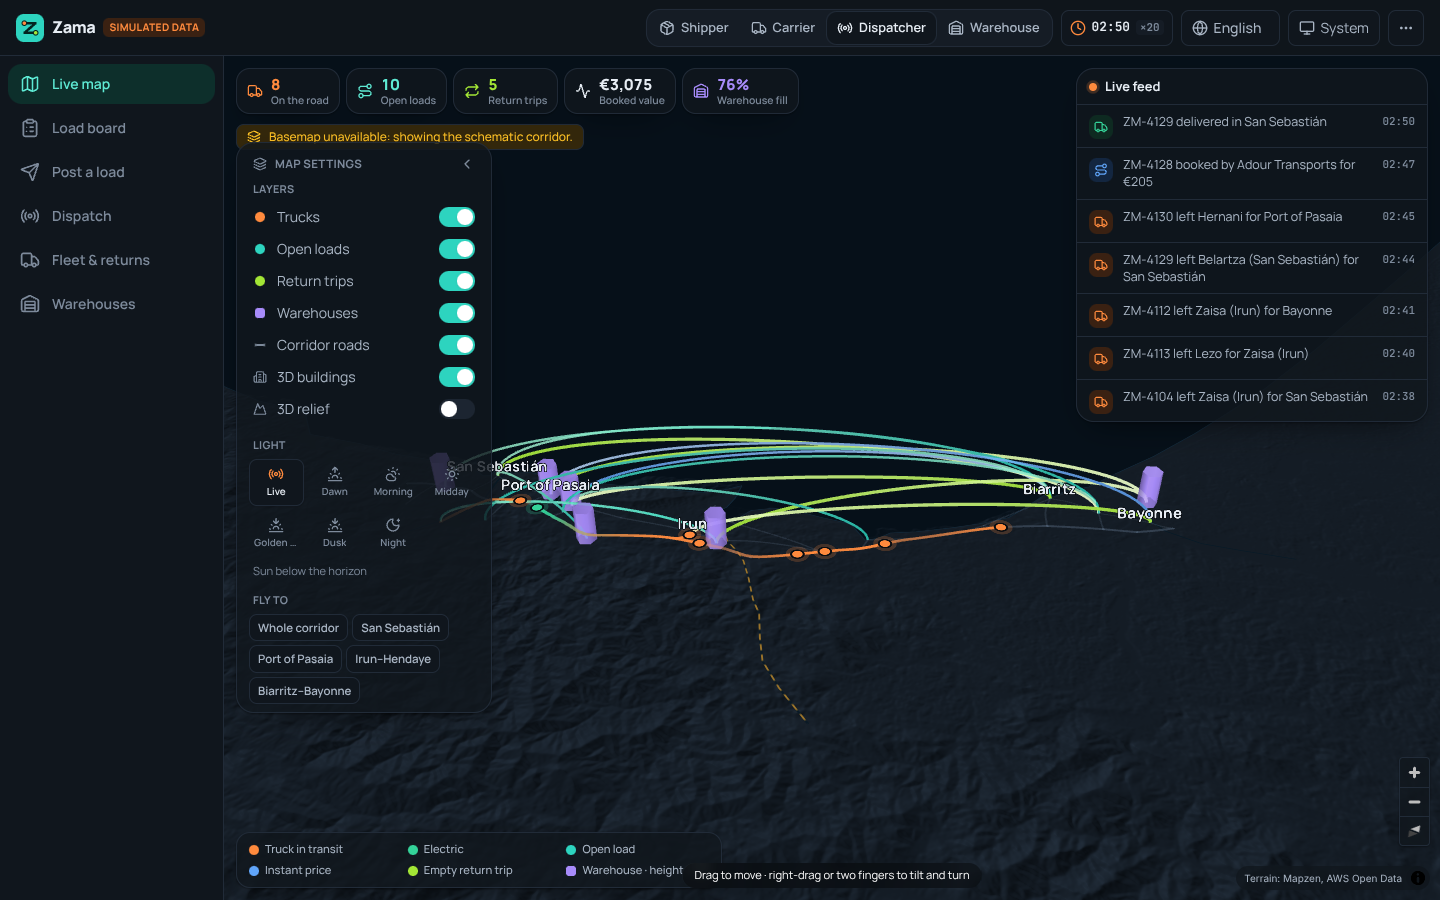
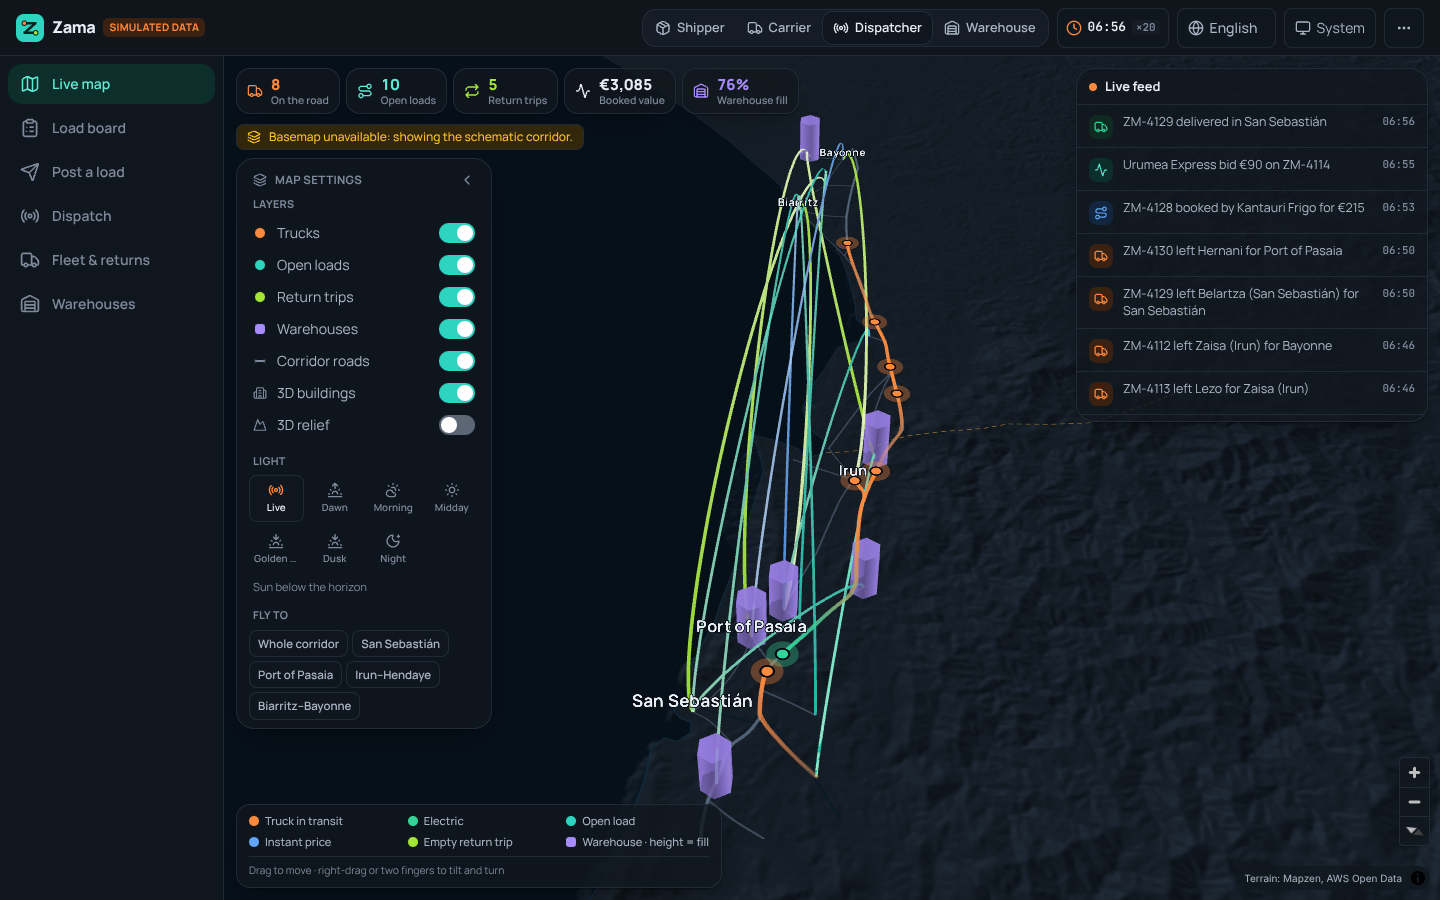
README: corrected rules, research notes, roadmap, new screenshots
- Rules as they stand in October 2026: Donostia ZBE phases and foreign
  plates, the Pays Basque ZFE, cabotage with the 4-day cooling-off, DeCA
  for domestic Spanish trips, CMR / lettre de voiture otherwise, with
  sources.
- Tolls on the AP-8 and A-63 (the GI-20 is free); 55 km by road.
- What current freight exchanges and warehouse systems offer that Zama
  doesn't yet, quick wins first; a roadmap built on it.
- Live demo link; screenshots retaken with the new map framing.

Claude-Session: https://claude.ai/code/session_01FzZgtjUupfeEJgQxbaito1

diff --git a/README.md b/README.md
@@ -2,7 +2,9 @@
 
 **Every truck on the Basque coast, full both ways.**
 
-Zama is a working prototype of a freight and warehouse marketplace for the 50 km cross-border corridor between
+**Live demo: [zama-freight.vercel.app](https://zama-freight.vercel.app)** (opens in your language: es · eu · fr · en · ru)
+
+Zama is a working prototype of a freight and warehouse marketplace for the 55 km (by road) cross-border corridor between
 **San Sebastián / Donostia**, the **port of Pasaia**, **Irun** (and the Zaisa logistics area), **Hendaye** and the
 **Biarritz – Anglet – Bayonne** coast. One market, seen from four seats:
 
@@ -50,26 +52,44 @@ underneath: streets, land use and 3D buildings lit by the sun.
 
 ### Marketplace
 
-- **Instant fair price** for every lane and vehicle, shown before anyone bids: handling + distance + tolls (AP-8 / A-63)
-  + border handling + extras (express +25 %, tail-lift +€18, ADR +15 %), with a market range and €/km
-  (`src/lib/pricing.ts`, a hand-calibrated demo model, not a tariff).
-- **Two ways to book**: *take bids* (carriers send prices; the shipper accepts) or *instant price* (first carrier to accept).
+- **Instant fair price** for every lane and vehicle, shown before anyone bids: handling + distance + tolls + border
+  handling + extras (express +25 %, tail-lift +€18, ADR +15 %), with a market range and €/km
+  (`src/lib/pricing.ts`, a hand-calibrated demo model, not a tariff). Tolls are charged on the AP-8 east of Errenteria
+  and on the A-63, as a per-km stand-in for their plaza tolls; the free GI-20 ring through Donostia is not tolled, and
+  Gipuzkoa's HGV charge on the N-I / A-15 is not modelled.
+- **Two ways to book**: *take bids* (carriers send prices; the shipper accepts) or *instant price* (first carrier to
+  accept; *Book now* goes to the best-rated carrier with a truck free for the job).
 - **Bids** with vehicle, driver, DGT eco label, pickup ETA and a note; the carrier sees whether a bid is strong or weak
   against the fair range.
 - **Return trips (backhaul)**: carriers post an empty leg (vehicle, from, to, departure, free pallets, discount). Loads
   are matched when pickup is ≤ 15 km from the leg's start, delivery ≤ 18 km from its end, departure within ±6 h and the
   vehicle can carry it. Shippers can post-and-book in one step; carriers can pull a matching load onto their way home.
+- **One truck, one job**: a truck on a job or held for a return trip can't be assigned again, and pickers only offer
+  free trucks that can carry the load (type and weight). A load booked on a return trip or an accepted bid gets the
+  truck it was promised whenever that truck is free.
 - **Electronic consignment note** timeline: draft → shipper → carrier (pickup) → consignee (delivery).
 - **Live feed** of what the market is doing, and toasts for everything you do.
 
 ### Rules checked before booking
 
-- **Donostia ZBE** (low-emission zone): trips into or out of the zone need a DGT **0, ECO or C** label; a B-label
-  vehicle is flagged (`src/lib/checks.ts`).
-- **EU cabotage** (Reg. 1072/2009 as amended by the Mobility Package): a foreign carrier may run at most **3 domestic
-  operations in 7 days** after an international delivery; bids and assignments show the counter.
-- **DeCA / e-CMR**: from **5 October 2026** Spain requires an electronic control document (DeCA) for domestic road
-  freight; cross-border trips travel on an e-CMR. Every load shows which one applies.
+All in `src/lib/checks.ts`, checked against the rules as they stand in October 2026 (see [Sources](#sources-for-the-rules)).
+
+- **San Sebastián / Donostia ZBE** (low-emission zone, in force since December 2024, camera fines since March 2025):
+  until the end of 2027 it bars only vehicles **without a DGT label**; from 2028 it also bars **B**. A B-label truck is
+  allowed today and warned that it has until the end of 2027. **Foreign-plated** trucks have no DGT label at all and need
+  the city's **prior authorisation**, which the checks and the dispatch alerts point out.
+- **Pays Basque ZFE-m** (since June 2025, 06:00–20:00, Tarnos to Hendaye, which covers every French place in the app):
+  Crit'Air 4 or better, and foreign trucks need a Crit'Air sticker. Every demo vehicle passes, so the row is
+  informational.
+- **EU cabotage** (Reg. 1072/2009 as amended by Reg. 2020/1055): a carrier working **inside a country that isn't its
+  own** (a French haulier on a Spanish domestic job, or an Irun haulier doing Hendaye → Bayonne) may run up to **3
+  operations within 7 days** of an international delivery, then has a **4-day cooling-off** in that country. Bids, the
+  load board and dispatch show the counter, and other shippers' simulated accepts skip carriers that are at the limit.
+  (The real limit counts per vehicle from its incoming trip; the demo counts per carrier.)
+- **Transport documents**: from **5 October 2026** the control document for for-hire road freight **inside Spain**
+  (cabotage included) must be electronic: the **DeCA** (Ley 9/2025). Cross-border trips need a **CMR** consignment
+  note, issued here as an **e-CMR** (electronic CMR is optional; paper stays valid). Trips **inside France** use a
+  **lettre de voiture**. Every load shows which one applies.
 
 ### Live 3D map (`src/components/map`)
 
@@ -77,14 +97,18 @@ underneath: streets, land use and 3D buildings lit by the sun.
   3D building extrusions, motorway refs, logistics land tinted violet, place names in the reader's language.
 - **Relief** from the Mapzen / AWS Terrain Tiles: hillshade always, optional **3D terrain**.
 - **The real sun**: light direction, colour and sky follow the solar position over the corridor for the market clock,
-  or for a preset (dawn, morning, midday, golden hour, dusk, night).
+  or for a preset (dawn, morning, midday, golden hour, dusk, night). Presets are sun altitudes, not clock times, so
+  "dawn" is dawn in June and in December alike.
 - **deck.gl 9.4**, interleaved in MapLibre's WebGL context: `TripsLayer` trucks with trails moving along their routes,
   pulsing truck heads (electric vans in green), `ArcLayer` open loads (teal = bids, blue = instant price), return trips
   in lime, `ColumnLayer` warehouses whose height is their fill, the corridor road graph, and labels.
 - Click anything for a card (load progress and arrival, driver and plate, bids, return-trip matches, warehouse fill)
-  with links to the load board or the digital twin. Fly-to presets for the corridor, San Sebastián, Pasaia, the
-  Irun–Hendaye border and Biarritz–Bayonne.
-- If the tiles can't be reached the map switches to a **schematic fallback** drawn from `src/data/coast.ts`.
+  with links to the load board or the digital twin. Fly-to presets for the corridor (framed so every place fits the
+  screen, clear of the floating panels), San Sebastián, Pasaia, the Irun–Hendaye border and Biarritz–Bayonne.
+  *Show on map* on the load board opens the map on that load (`?focus=`).
+- If the tiles can't be reached (the TileJSON fails, the first tiles all fail, or nothing arrives within 25 s) the map
+  switches to a **schematic fallback** drawn from `src/data/coast.ts`, and tries the real basemap again when the browser
+  comes back online. A lost WebGL context remounts the map instead of leaving it blank.
 
 ### Warehouse digital twin (`src/components/warehouse`, `src/components/screens/warehouse.tsx`)
 
@@ -94,12 +118,18 @@ Lezo cold store (chilled + frozen), Belartza urban hub and the Adour depot in th
 - **3D twin** with `@react-three/fiber`: instanced pallet positions inside pallet racking (blue uprights, orange
   beams), AMR robots driving the aisles, dock doors with the trucks that are at them right now, temperature and
   customs zones on the floor. **Explode** lifts levels and spreads rows apart.
-- **Colour by** status, ABC velocity, fill, temperature or expiry; tap a pallet for its SKU, owner, lot, expiry, class,
-  picks per day, last count and walking distance from the dock.
-- **Actions**: pick, cycle count, block / release, move to the suggested slot.
-- **Inventory** search, **dock-door timeline** with booking and clash detection, **slotting suggestions** (fast movers
-  far from the doors or up high → free low positions near the dock, with metres saved per day), **cross-dock** pairing
-  of inbound and outbound loads, and KPIs (occupancy, A movers, counts due, expiring stock, doors busy now).
+- **Colour by** status, ABC velocity, fill, temperature, expiry or count status; tap a pallet for its SKU, owner, lot,
+  expiry, class, picks per day, last count and walking distance from the dock.
+- **Actions**: pick (in the SKU's own unit: cases, cartons, rolls…), cycle count, block / release (a customs hold comes
+  back on release), move to the suggested slot (only into an empty position in the same temperature zone). Pick is off
+  for blocked and held stock, and a **FEFO** hint points to an earlier-expiring lot of the same SKU.
+- **Inventory** search (accent-insensitive, also by owner), a **cycle-count worklist** from the *Count due* tile (A
+  every 30 days, B 60, C 120), a **dock-door timeline** with booking, clash detection and **live ETAs** for inbound
+  trucks still on the road (late ones flagged), **slotting suggestions** (fast movers far from the doors or up high →
+  free low positions near the dock, with metres saved per day), **cross-dock** pairing of inbound and outbound loads,
+  and KPIs (occupancy, A movers, counts due, expiring stock, doors busy now).
+- Light on phones: capped pixel ratio, smaller shadow maps, shadows redrawn only when something moves, and no drawing
+  while the twin is scrolled out of view.
 
 ### Everything else
 
@@ -107,8 +137,11 @@ Lezo cold store (chilled + frozen), Belartza urban hub and the Adour depot in th
   remembered choice (cookie read by `src/proxy.ts`). Places use the names people use in each language
   (Donostia / San Sebastián / Saint-Sébastien / Сан-Себастьян, Baiona / Bayona / Bayonne / Байонна…).
 - **Light and dark themes** (system, light, dark) without a flash on load; the map, the twin and the share cards each
-  have their own palettes.
-- **Share cards**: a custom 1200×630 Open Graph image per language, rendered at build time with `next/og`.
+  have their own palettes. Text and buttons meet 4.5:1 contrast in both.
+- **Accessible on touch and keyboard**: 40 px touch targets on phones, sheets that keep focus inside and hand it back
+  when they close, labelled icon buttons in every language.
+- **Share cards**: a custom 1200×630 Open Graph image per language with alt text in that language, rendered with
+  `next/og` on the first request and cached.
 - **App icon, web manifest, robots and sitemap**; the demo app itself is `noindex`.
 
 ---
@@ -122,7 +155,8 @@ accept the best bid as pickup nears, booked loads get vehicles, trucks depart an
 return trips get filled.
 
 What you create yourself (loads you post, your bids, return trips, dock bookings, warehouse changes, role and map
-settings) is saved in your browser (`localStorage`, key `zama-demo-v1`). *Reset demo* in the ⋯ menu clears it.
+settings) is saved in your browser (`localStorage`, key `zama-demo-v1`) together with the market clock, so a reload
+carries on where you left off: a truck that was halfway is still halfway. *Reset demo* in the ⋯ menu clears it.
 
 ---
 
@@ -177,7 +211,7 @@ npm run screens                   # writes docs/screens/*.png (BASE=… to point
 
 ## Deploy
 
-Vercel, framework preset **Next.js**, no environment variables required. Optional: `NEXT_PUBLIC_SITE_URL` to force the
+Deployed on Vercel from `main` (every push redeploys): framework preset **Next.js**, no environment variables required. Optional: `NEXT_PUBLIC_SITE_URL` to force the
 canonical origin used in Open Graph tags, hreflang and the sitemap (otherwise Vercel's production URL is used).
 
 ---
@@ -193,18 +227,76 @@ canonical origin used in Open Graph tags, hreflang and the sitemap (otherwise Ve
 ## Limitations (it's a prototype)
 
 - No backend, accounts, payments or real carriers: the market is simulated in each browser.
-- Routing uses a hand-traced graph of the A-8/AP-8, A-63, N-1/GI-636, D-810 and urban links (Dijkstra on travel time),
+- Routing uses a hand-traced graph of the AP-8, the GI-20 ring, the A-63, N-1/GI-636, D-810 and urban links (Dijkstra on travel time),
   not a routing engine; times and distances are close at regional scale, approximate street by street.
-- Prices, tolls and CO₂ are a demo model. ZBE, cabotage and DeCA logic is simplified to what a dispatcher needs to see.
+- Prices, tolls and CO₂ are a demo model (CO₂ is per vehicle-km, tank-to-wheel, charged to one load; ISO 14083 /
+  GLEC would use well-to-wheel figures shared by tonne-km). ZBE, ZFE, cabotage and document logic is simplified to what
+  a dispatcher needs to see.
 - The e-CMR / DeCA flow is a status timeline, not an integration with a certified provider.
+
+## What the research says comes next
+
+A review of current freight exchanges (TIMOCOM, Trans.eu, Wtransnet, Teleroute / Alpega, Transporeon, Ontruck) and of
+warehouse software (Blue Yonder, SAP EWM, Infor, Gartner's 2025 WMS Magic Quadrant) against this prototype.
+
+**Marketplace quick wins**, each small on top of what is here:
+
+- A shareable **live tracking link** for the consignee: every load already has its route, progress and ETA.
+- **Ratings after delivery**, asked of both sides (carrier stars are static demo numbers today).
+- **Verified-company badges**: licence, insurance, registry check.
+- **Payment guarantee** and *get paid in 48 h* (Wtransnet and Teleroute run these with Coface), plus a shipper
+  **payment-reliability score** and payment terms on each load (Trans.eu's TransRisk).
+- **Dock slots booked by the carrier** from a booked load, re-planned from the live ETA (Trans.eu Dock Scheduler,
+  Transporeon time slots).
+- **Saved searches** with an alert when a matching load is posted.
+
+Bigger steps: tenders and contract lanes, messaging and digital deal confirmation per load, AI freight input (paste an
+email, get a filled load), a data-backed price index, and on-demand warehouse space (pallet-weeks) so shippers can book
+storage as well as trucks.
+
+**Warehouse capabilities**, where the prototype stands:
+
+| Capability | In Zama today | Next step |
+| --- | --- | --- |
+| AI / dynamic slotting | Rule-based moves with an *Apply* button | Continuous re-slotting from demand forecasts, SKU affinity and the labour cost of each move |
+| Robots (AMR) | Animated in the twin | An orchestration layer between the WMS and mixed fleets (VDA 5050) |
+| Digital twin | Live 3D replica with colour modes | What-if runs on layout, robot count and staffing |
+| Dock & yard | Door timeline, clash detection, live ETAs | Carrier self-booking tied to loads; gate check-in and yard moves |
+| Labour management | — | Engineered standards vs. actuals, headcount per shift from volume |
+| Cycle counting | ABC worklist and manual counts | Simulated drone or vision scans with discrepancy flags |
+| Cold chain | Temperature zones and a colour mode | Sensor time series, excursion alarms and automatic quarantine (EU GDP) |
+| FEFO / lots | Lots, expiries, FEFO hint | FEFO allocation, minimum shelf life per customer, recall trace |
+| Picking | Pick per position | Mobile pick paths with next-location prompts; voice or vision picking |
+| Carbon | CO₂e per trip | ISO 14083 / GLEC well-to-wheel figures, hub emissions (the method CountEmissionsEU sets for published figures) |
+| Cross-docking | Inbound/outbound pairing, 45 min handling | ASNs, door pairing and dwell timers |
 
 ## Roadmap
 
-1. Backend (Postgres + realtime) with accounts and carrier verification (licence, insurance, cabotage history).
-2. A routing engine (Valhalla or OSRM) with HGV profiles, tolls and live traffic.
-3. Certified e-CMR / DeCA provider and payments with escrow.
-4. Telematics for live positions and arrival times; EV charging for vans in the ZBE.
-5. Expand along the corridor: Bilbao, Vitoria-Gasteiz, Pamplona, Bordeaux.
+1. Backend (Postgres + realtime) with accounts, verified companies (licence, insurance, registry) and per-vehicle
+   cabotage history.
+2. The marketplace quick wins above.
+3. A routing engine (Valhalla or OSRM) with HGV profiles, plaza tolls, Gipuzkoa's N-I / A-15 HGV charge and live
+   traffic.
+4. A certified DeCA / e-CMR / electronic lettre de voiture provider; payments with escrow or factoring.
+5. Telematics for live positions and arrival times; EV charging for vans in the ZBE.
+6. More checks: Spain's ban on drivers of vehicles over 7.5 t loading or unloading (since September 2022), and the
+   smart tachograph v2 for vans over 2.5 t on international or cabotage work (since July 2026).
+7. Expand along the corridor: Bilbao, Vitoria-Gasteiz, Pamplona, Bordeaux.
+
+## Sources for the rules
+
+- DeCA: [Ministerio de Transportes](https://www.transportes.gob.es/transporte-terrestre/profesionales-transporte/servicios-transportista/documento-electronico-control-administrativo-deca)
+  (Ley 9/2025, disposición transitoria octava; Orden FOM/2861/2012).
+- Donostia ZBE and foreign vehicles: [donostia.eus](https://donostia.eus/en/movilidad/zona-bajas-emisiones/solicita-autorizacion/foreing-vehicles),
+  [RACE map](https://www.race.es/zonas-de-bajas-emisiones/mapa-zbe-donostia-san-sebastian).
+- Pays Basque ZFE-m: [Connexion France](https://www.connexionfrance.com/news/zfe-basque-country-to-ban-most-polluting-vehicles-from-june-2025/707597);
+  ZFEs kept by the Conseil constitutionnel on 21 May 2026 ([Public Sénat](https://www.publicsenat.fr/actualites/politique/loi-de-simplification-le-conseil-constitutionnel-censure-la-suppression-des-zfe-et-lassouplissement-du-zan)).
+- Cabotage (Reg. 1072/2009 as amended by Reg. 2020/1055): [EUR-Lex summary](https://eur-lex.europa.eu/summary/EN/tr0038).
+- e-CMR is optional: [eFTI / e-CMR overview](https://routal.com/en/ecmr).
+- Tolls: [Bidegi](https://www.bidegi.eus/en/deskontuak), [A63 autoroute](https://en.wikipedia.org/wiki/A63_autoroute).
+
+These were checked through web search in October 2026; the primary texts (BOE, the Donostia ordinance) should be read
+before relying on any of it.
 
 ---
 
